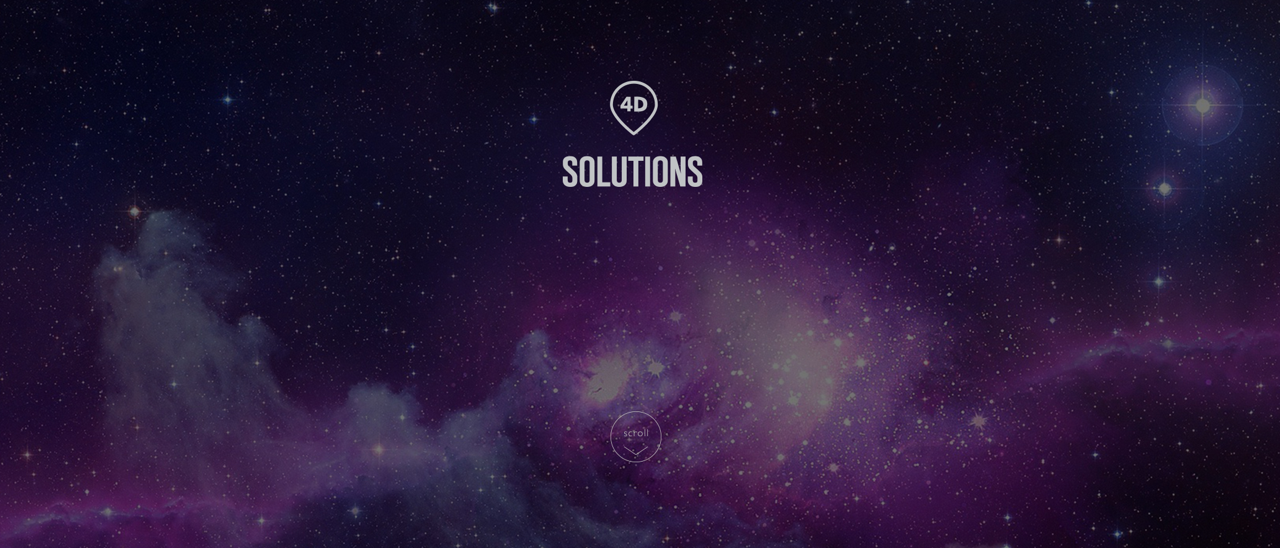
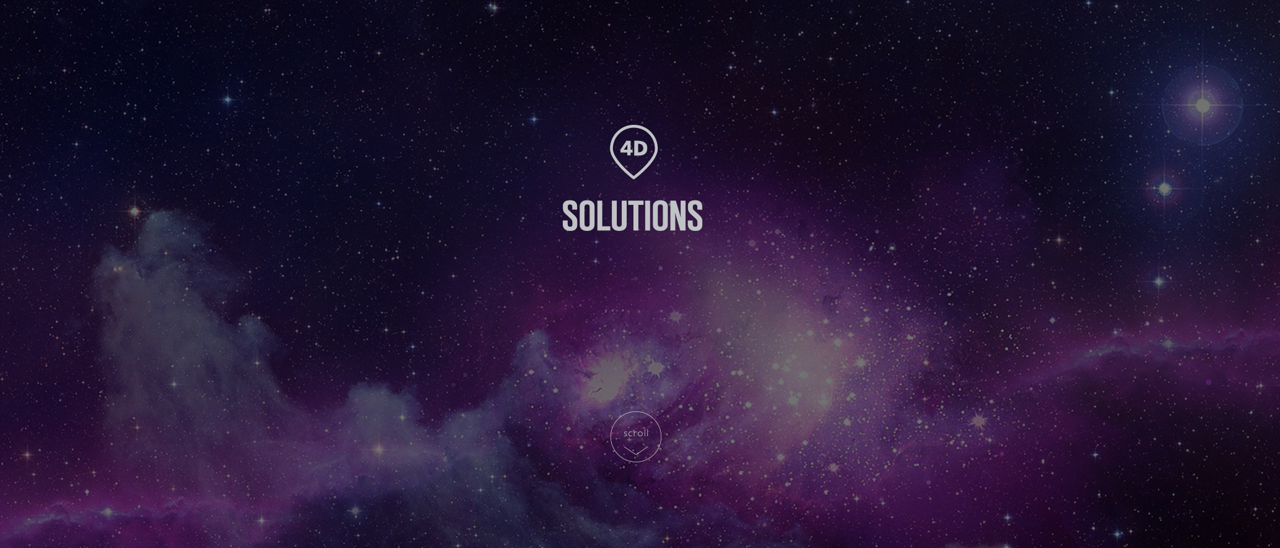
PLEASE GOODDDDDDDDD

Changed region(s): [[0.4375, 0.1551, 0.5625, 0.4343]]

diff --git a/css/home.css b/css/home.css
@@ -39,7 +39,7 @@ body {
 #solutionsText {
     text-align: center;
     position: absolute;
-    margin-top: 229px;
+    margin-top: 254px;
     margin-left: 18%;
     width: 63%;
     letter-spacing: 2px;
@@ -207,6 +207,10 @@ div li a:hover {
     letter-spacing: 2px;
 }
 
+#moveThis {
+    display: none;
+}
+
 .emailText {
 	font-size: 26px;
 	color: black;
@@ -365,6 +369,10 @@ nav {
     margin-top: -15%;
 }
 
+#moveThis {
+    display: none;
+}
+
 #solutionsText {
     text-align: center;
     position: absolute;
@@ -426,6 +434,10 @@ body {
     display: none;
 }
 
+#moveThis {
+    display: none;
+}
+
 #firstBackground {
     height: 500px;
     width: 100%;
@@ -446,9 +458,10 @@ body {
 
 #solutionsText {
     text-align: center;
-    margin-top: 154px;
+    margin-top: 176px;
     margin-left: 0%;
     width: 100%;
+    font-size: 17px;
 }
 
 #solutionsLogo {
@@ -597,6 +610,10 @@ body {
     display: none;
 }
 
+#moveThis {
+    display: none;
+}
+
 #firstBackground{
     height: 500px;
     width: 100%;
@@ -608,7 +625,7 @@ body {
 
 #solutionsText {
     text-align: center;
-    margin-top: 155px;
+    margin-top: 176px;
     margin-left: 1%;
     width: 97%;
     font-size: 14px;
@@ -980,8 +997,9 @@ navbar-collapse, .navHeaderCollapse, .collapse, .in {
 }
 
 #moveThis {
+    display: initial;
     color: black;
-    margin-left: 33%;
+    margin-left: 17%;
     margin-top: -26px;
 }
 
